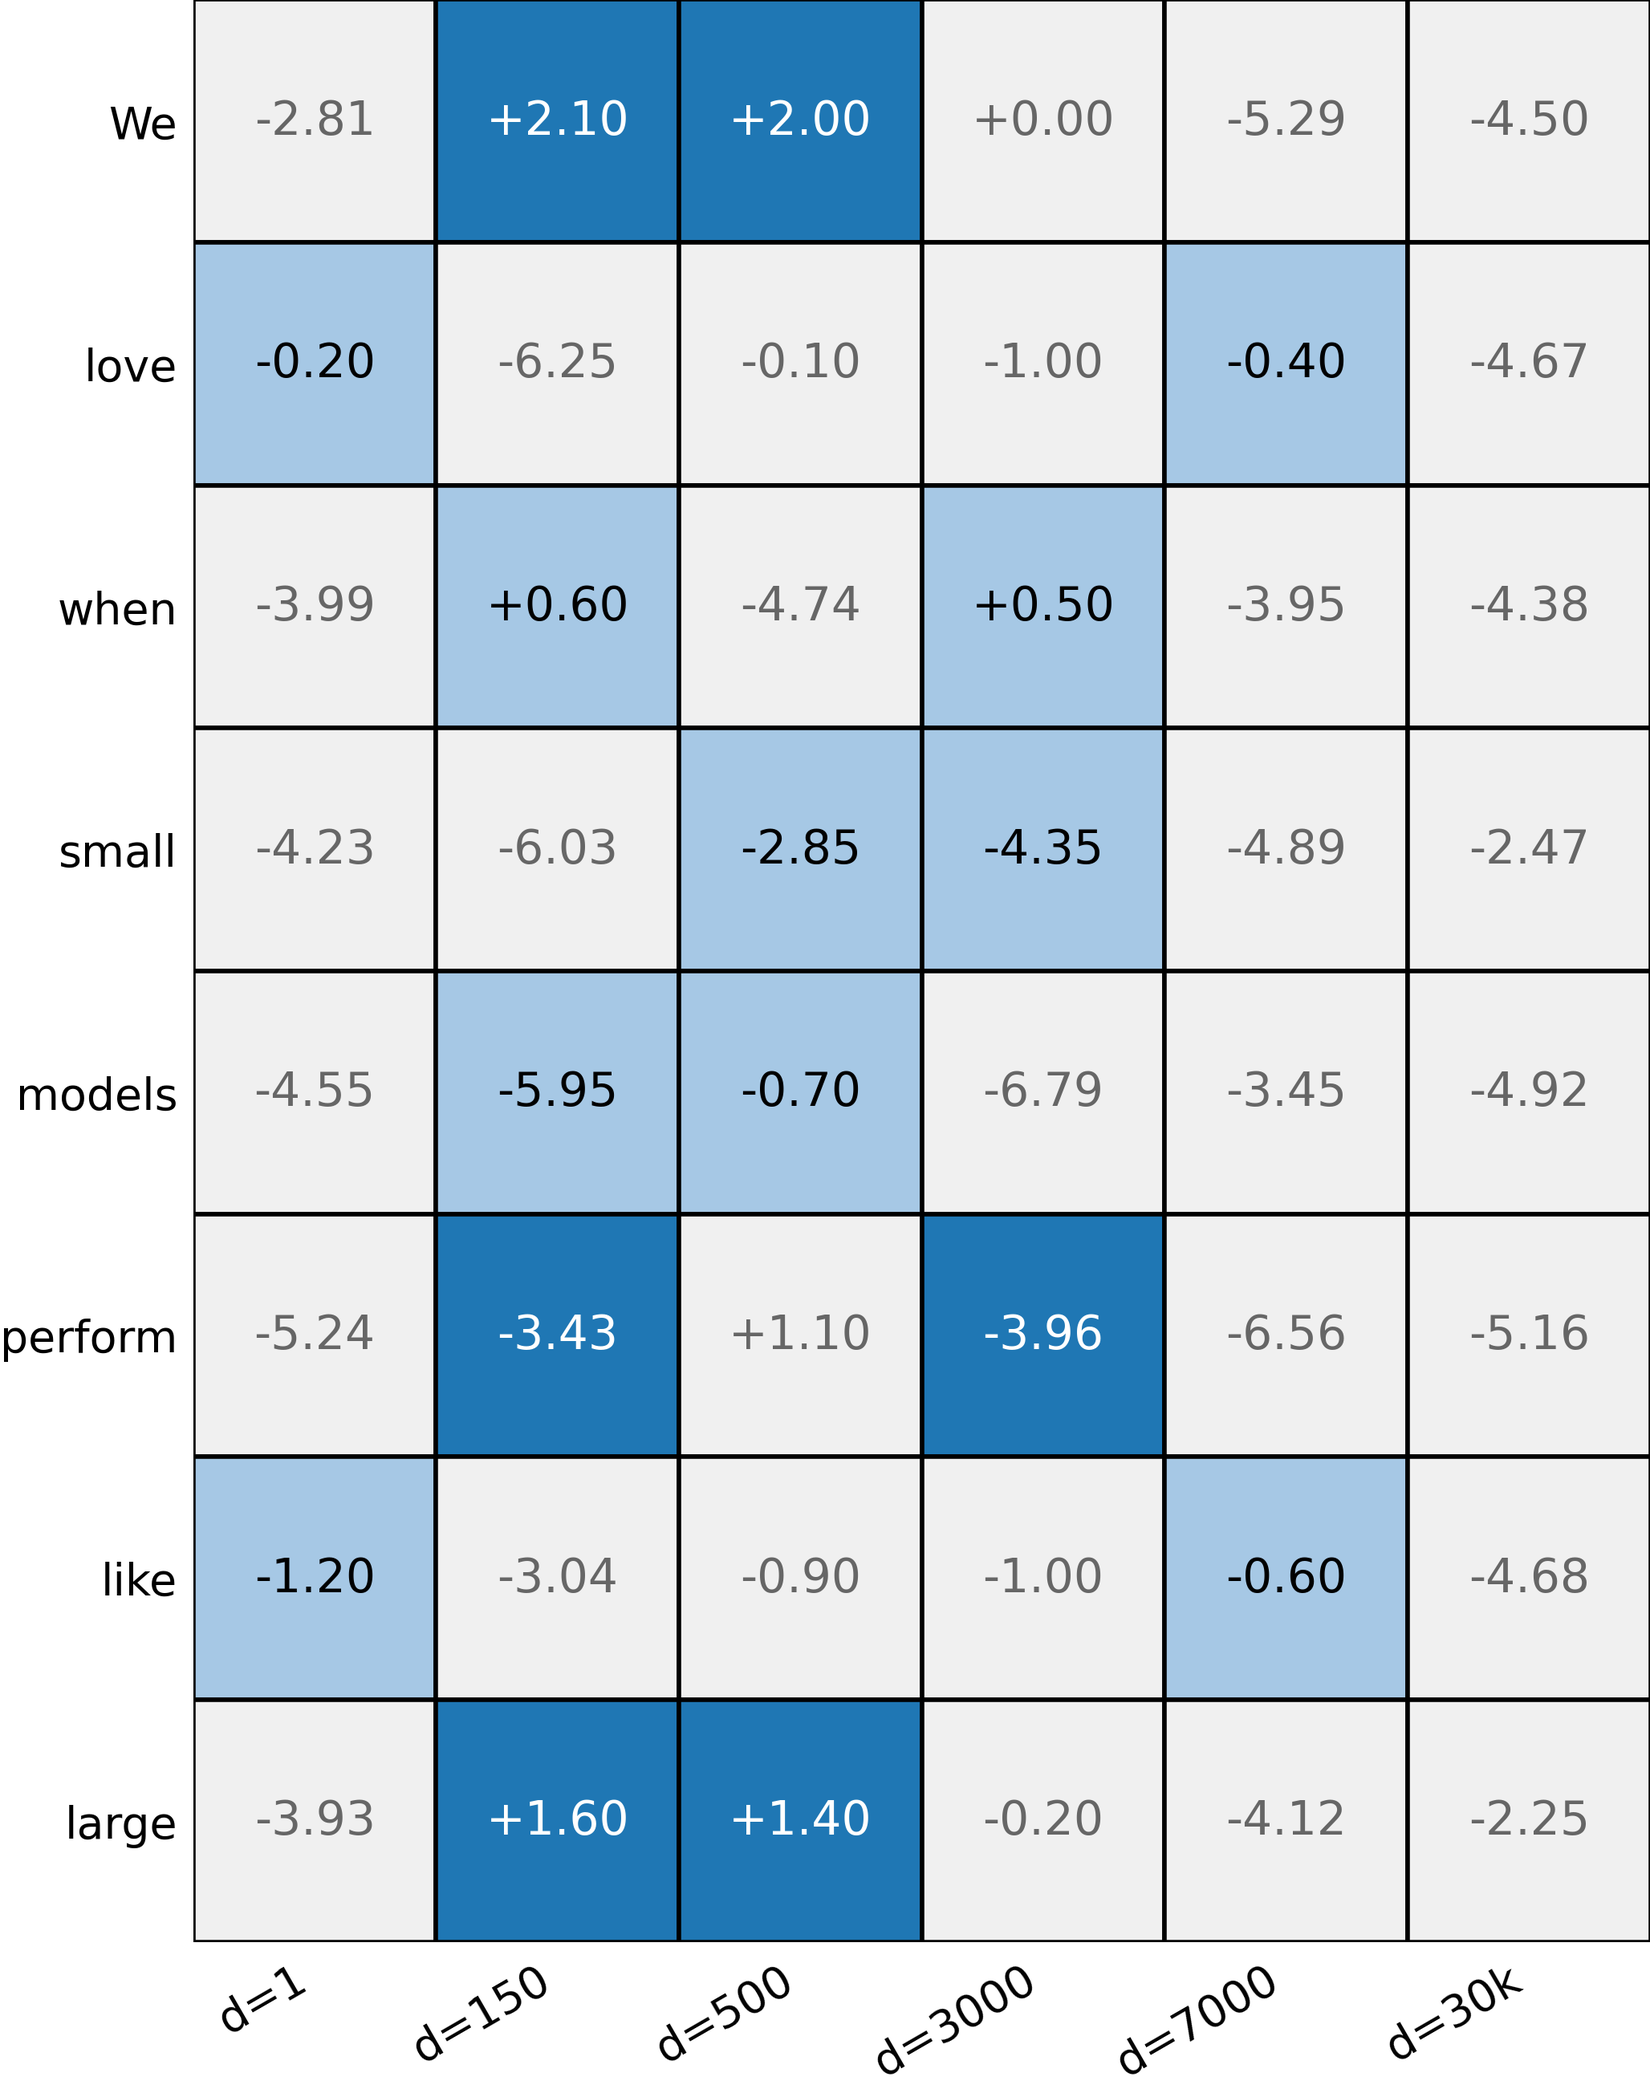
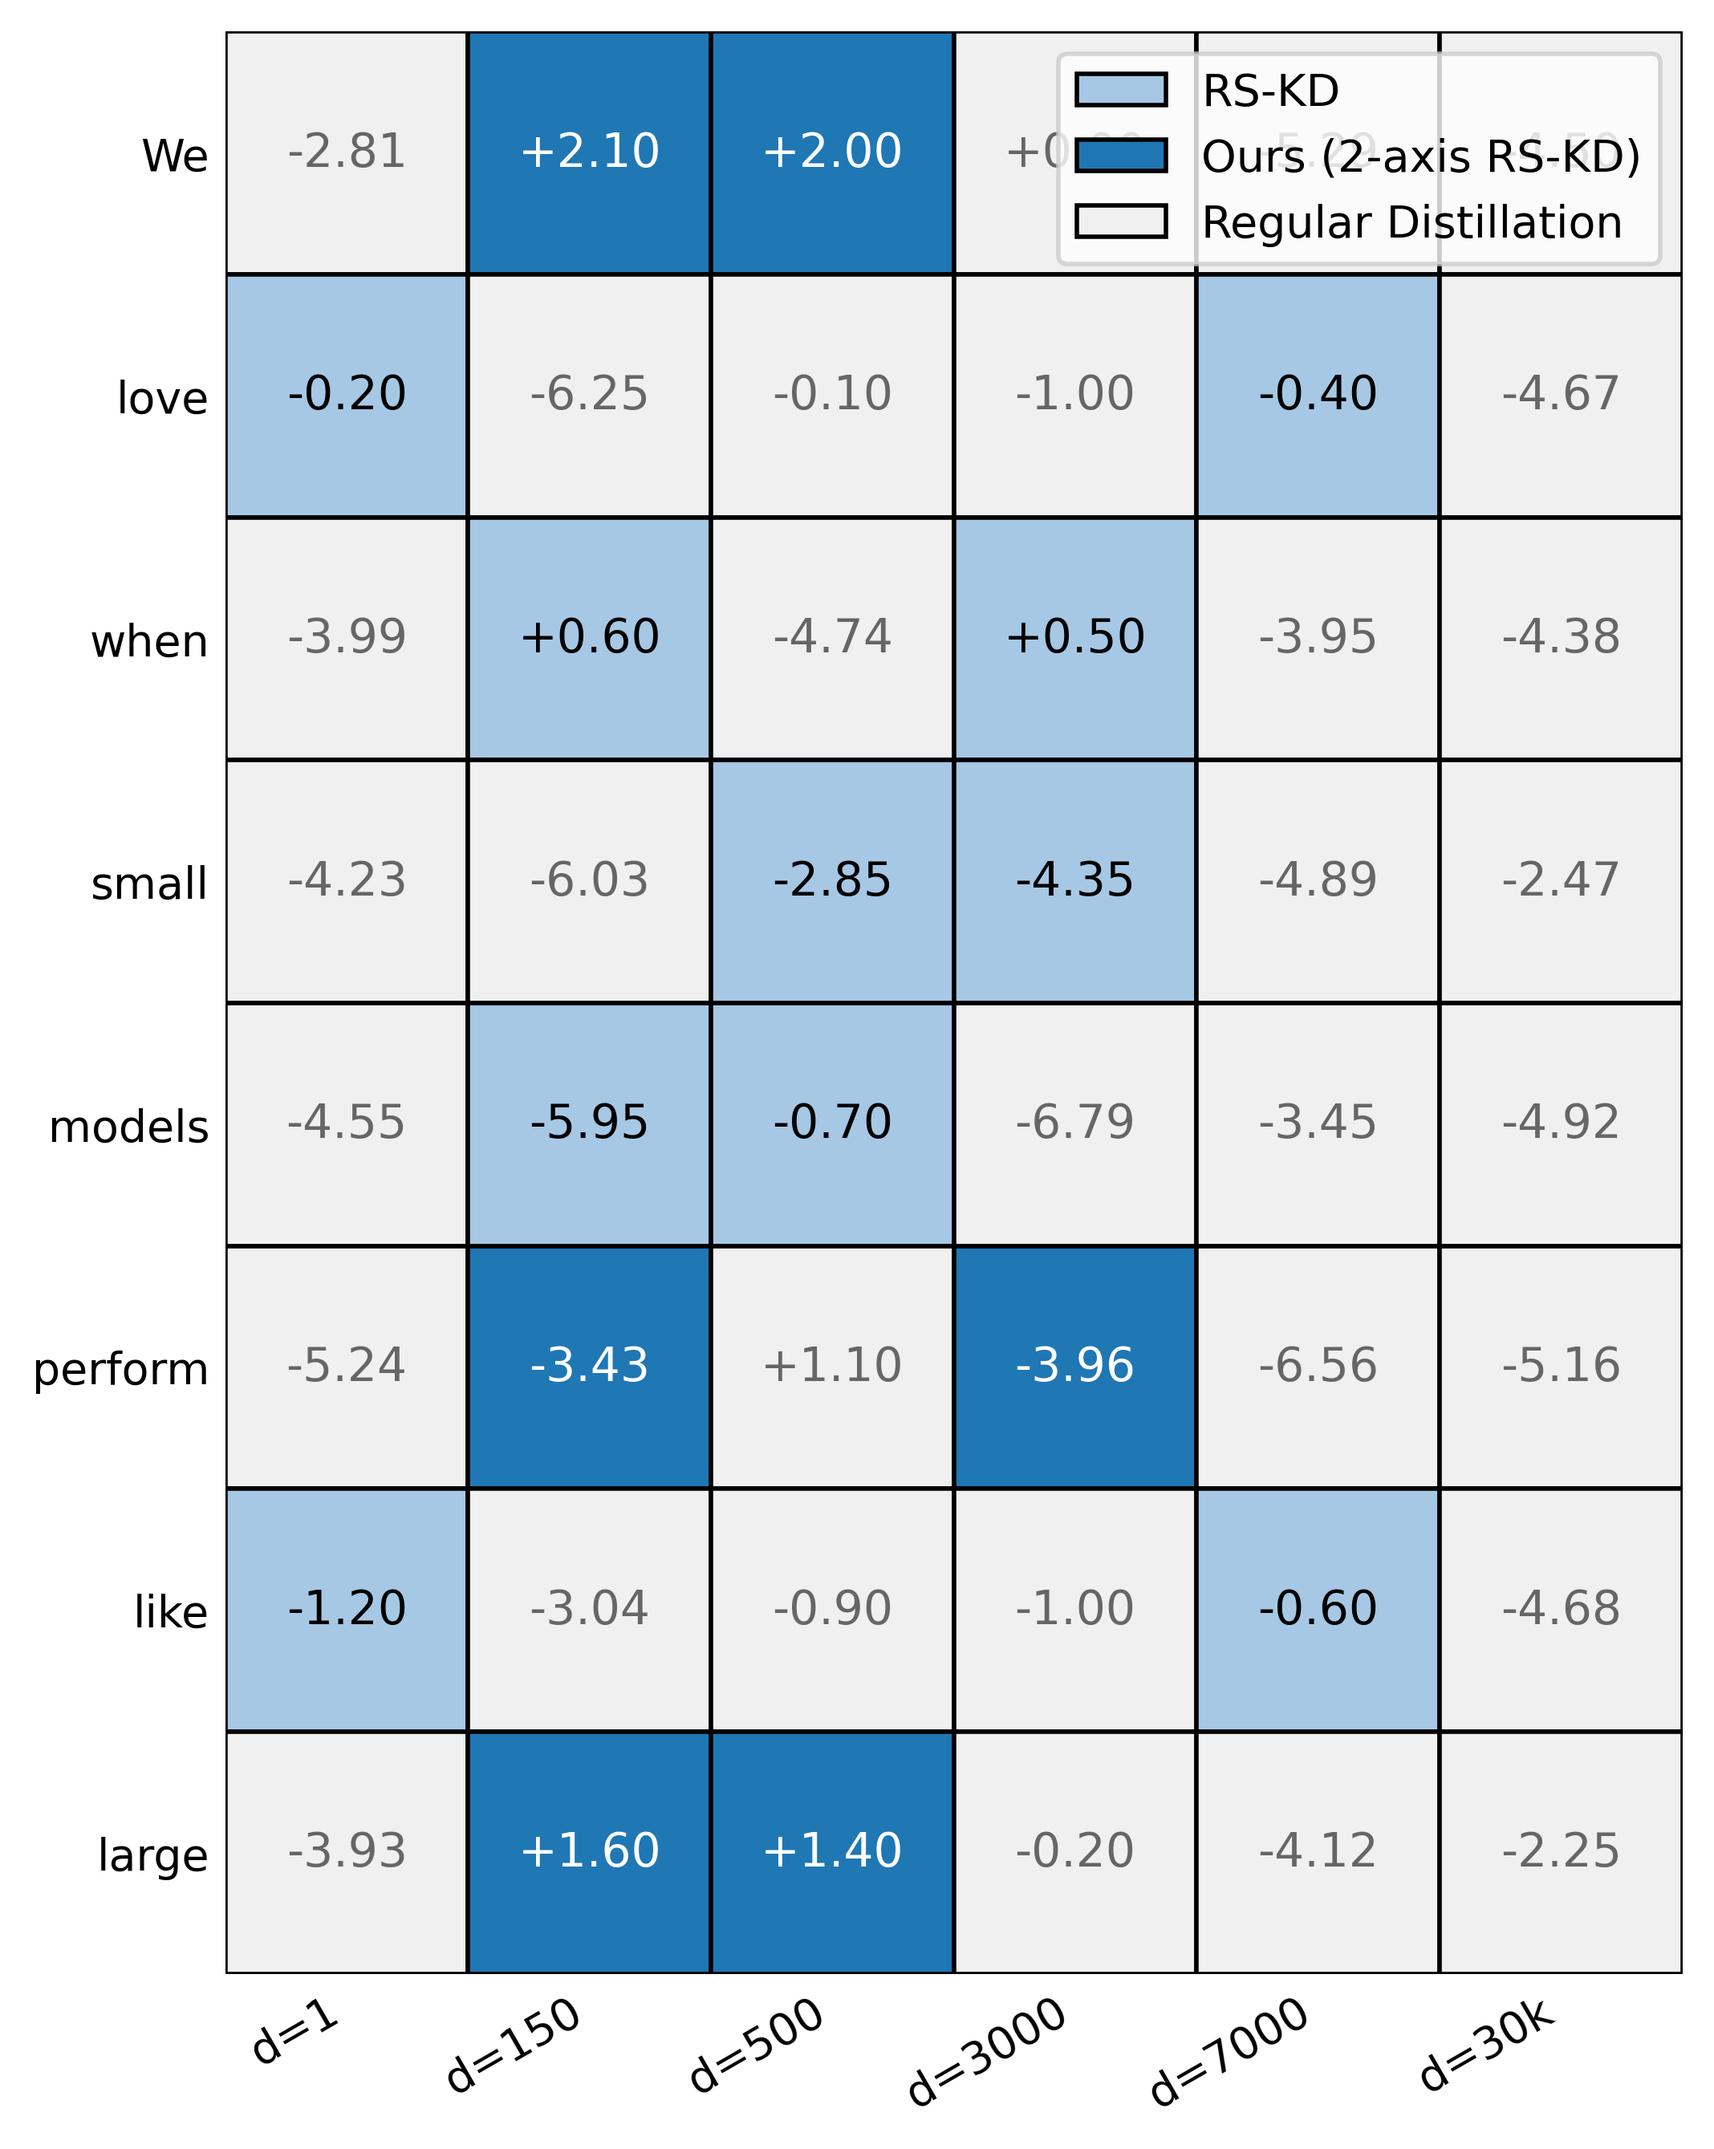
feat: update readme

diff --git a/graphs/rskd_grid.py b/graphs/rskd_grid.py
@@ -91,5 +91,13 @@ for s in ax.spines.values():
 plt.tight_layout()
 
 plt.savefig("rskd_grid.pgf", bbox_inches="tight", pad_inches=0)
-plt.savefig("rskd_grid.png", dpi=400, bbox_inches="tight", pad_inches=0)
+legend_elements = [
+    Patch(facecolor=light_blue, edgecolor="black", label="RS-KD"),
+    Patch(facecolor=strong_blue, edgecolor="black", label="Ours (2-axis RS-KD)"),
+    Patch(facecolor=reg_gray_bg, edgecolor="black", label="Regular Distillation"),
+]
+# the legend should be inside the plot area on the right side:
+ax.legend(handles=legend_elements, loc="upper right",  frameon=True)
+
+plt.savefig("rskd_grid.png", dpi=400, bbox_inches="tight", pad_inches=0.1)
 plt.close()

diff --git a/graphs/kl_div_savings.py b/graphs/kl_div_savings.py
@@ -69,4 +69,5 @@ for i in range(5):
 # fig.text(0.01, 0.01, "Blue = teacher bars used in KL • Orange = student bars used in KL • Gray = bins/rows not distilled", fontsize=10)
 
 plt.savefig('kd_intuition.pgf', bbox_inches='tight', pad_inches=0)
+plt.savefig("kd_intuition.png", dpi=400, bbox_inches="tight", pad_inches=0)
 plt.close()

diff --git a/README.md b/README.md
@@ -1,156 +1,19 @@
-# Entropy-guided Knowledge-Distillation (EKD)
+<img align="right" width="60%" height="60%" src="graphs/rskd_grid.png">
 
-Knowledge distillation for LLMs that focuses on high-entropy "fork" tokens where the teacher model makes important decisions. Uses Ollama's Qwen3-8B in 4-bit as the teacher model.
+# SampledKD
 
-## Quick Start
+A two-axis, token-efficient method for  efficient knowledge distillation for LLMs:
 
-1. Install dependencies (you have to install [uv](https://docs.astral.sh/uv/) first):
-```bash
-uv venv
-# Linux:
-source .venv/bin/activate
-# Windows
-.venv/Scripts/activate
-pip install uv
-uv pip install -e .
+- **Tokens-selective KD (TSKD)**: instead of distilling every token, **enirely skip** the non informative ones and distill only a small set of "fork" high-entropy tokens per sequence. **Save compute on the Y axis**.
+- **SampledKD**: Same as TSKD, but combined with randomly sampled KD (RS-KD) over classes (logits): at selected positions, distill over a tiny cached subset of teacher logits, and importance weighting,the sampling match full-KD gradients in expectation. We now **save compute also on the X axis**.
 
-# Installing CUDA dependencies (adjust to your CUDA version):
-uv pip install .[cu118]
-```
+We create an offline cache, to get acheive "teacher not in the loop" distillation, only with saving $U=12$ sampled classes (a +1-byte from RS-KD, for entropy) per position; online we sample K positions and compute KD only over those cached classes.
 
-2. Install [Ollama](https://ollama.com/download) & Start with Qwen3-8B:
-```bash
-ollama run qwen3:8b
-```
+Assuming the Y axis is positions (the text's tokens), our KL divergence looks like:
+![KD intuition (positions footprint)](graphs/kd_intuition.png)
+## Highlights
 
-3. Run distillation:
-
-We provide several distillation types:
-* **vanilla** — KL between teacher & student on **all** tokens.
-* **ekd** — KL computed **only** on *fork tokens*, i.e. those whose
-  teacher-entropy is in the top-`--k_percent` percentile inside each
-  example.
-* **bucket** — KL computed on tokens with entropy in a specific percentile range,
-  e.g., 70th-80th percentile (excludes both very low and very high entropy tokens).
-* **linucb** — a contextual bandit (LinUCB) that observes a 6D feature vector per
-  token (teacher entropy, teacher CE, student CE, KL, coarse POS bucket, normalized
-  position) and learns online which tokens to distill. It enforces at least one
-  token per sequence and logs overlap with the top-entropy quartile alongside reward
-  improvements.
-
-Add `--score_token_selection` to the **top-k-tok** or **bucket** modes to rank
-tokens by a composite score that mixes teacher entropy, student
-cross-entropy, and teacher-student KL. Tune the mix with
-`--score_entropy_weight`, `--score_ce_weight`, `--score_kl_weight`, and pick a
-normalization via `--score_normalize`.
-
-We use Ollama's Qwen3-8B in 4-bit as teacher:
-```bash
-# Vanilla KD
-python ekd_distill.py \
-    --teacher_model Qwen/Qwen3-8B \
-    --student_model Qwen/Qwen3-0.6B \
-    --distill_type vanilla \
-    --datasets gsm8k \
-    --dataset_config main \
-    --prompt_col question \
-    --answer_col answer \
-    --output_dir ./kd_vanilla_run
-
-# Entropy-guided KD (top-k token selection)
-python ekd_distill.py \
-    --teacher_model Qwen/Qwen3-8B \
-    --student_model Qwen/Qwen3-0.6B \
-    --distill_type top-k-tok \
-  --k_percent 20 \
-    --datasets gsm8k \
-    --dataset_config main \
-    --prompt_col question \
-    --answer_col answer \
-    --output_dir ./kd_top_k_tok_run
-
-# Bucket distillation (e.g., distill on 70th-80th percentile entropy tokens)
-python ekd_distill.py \
-    --teacher_model Qwen/Qwen3-8B \
-    --student_model Qwen/Qwen3-0.6B \
-    --distill_type bucket \
-    --bucket_lower_percent 70 \
-    --bucket_upper_percent 80 \
-    --datasets gsm8k \
-    --dataset_config main \
-    --prompt_col question \
-    --answer_col answer \
-    --output_dir ./kd_bucket_run
-
-# Top-k selection with score-based ranking (entropy + CE + KL)
-python ekd_distill.py \
-  --teacher_model Qwen/Qwen3-8B \
-  --student_model Qwen/Qwen3-0.6B \
-  --distill_type top-k-tok \
-  --k_percent 20 \
-  --score_token_selection \
-  --score_entropy_weight 1.0 \
-  --score_ce_weight 1.0 \
-  --score_kl_weight 1.0 \
-  --datasets gsm8k \
-  --dataset_config main \
-  --prompt_col question \
-  --answer_col answer \
-  --output_dir ./kd_score_run
-
-# LinUCB contextual bandit distillation
-python ekd_distill.py \
-  --teacher_model Qwen/Qwen3-8B \
-  --student_model Qwen/Qwen3-0.6B \
-  --distill_type linucb \
-  --datasets gsm8k \
-  --dataset_config main \
-  --prompt_col question \
-  --answer_col answer \
-  --bandit_alpha 0.75 \
-  --bandit_threshold 0.0 \
-  --bandit_min_tokens 1 \
-  --output_dir ./kd_linucb_run
-```
-
-Tune LinUCB-specific knobs with `--bandit_alpha`, `--bandit_lambda`, `--bandit_threshold`,
-and `--bandit_max_tokens`. The trainer logs per-step selection statistics
-(`bandit/selected_tokens`, `bandit/overlap_selected`) and the average reward
-achieved by the bandit after each optimizer update (`bandit/avg_reward`,
-`bandit/positive_reward_rate`).
-
-## Requirements
-
-- Python >=3.10
-- CUDA-enabled GPU
-- Ollama installed and running with Qwen3-8B
-- Memory: Keep `batch_size * seq_len < 4000` to fit in low GPU memory (11GB VRAM).
-
-## Benchmarks
-Out-of-the-box the script supports the **AIME-2024** and **AIME-2025**
-math benchmarks. We prepare each dataset as a JSONL file:
-
-```json
-{
-  "id": "AIME24_q1",
-  "question": "Find the sum of ...",
-  "answer": "123"
-}
-```
-
-Place them in a directory and pass `--datasets aime24.jsonl aime25.jsonl`.
-The script prompts the teacher to generate a chain-of-thought (CoT)
-followed by the boxed final answer, caches the result, and then trains the
-student by teacher-forcing.
-
-
-## Dataset Format
-
-Prepare datasets as JSONL files:
-```json
-{
-  "id": "example_1",
-  "question": "Your question here...",
-  "answer": "123"
-}
-```
+- SampledKD comes with lots of modes: Token selection by teacher entropy, by a score that combines CE & KL, with global FIFO (GLS) thresholding, with RS-KD like tokens selection and with a tiny dedicated model for selection trains from the loss.
+- Unbiased class sampling via RS-KD; compact cache: $(12\times3B + 1B)/position$
+- Optional sampled-softmax path to remove full-vocabulary softmax during training
+- Evaluation - pass@1 on GSM8K, SVAMP, ARC (Easy/Challenge), HellaSwag, PIQA, LAMBADA (test-only), AIME’25 (test-only), and IFEval

diff --git a/CONTRIBUTING.md b/CONTRIBUTING.md
@@ -1,3 +1,156 @@
+## Quick Start
+
+1. Install dependencies (you have to install [uv](https://docs.astral.sh/uv/) first):
+```bash
+uv venv
+# Linux:
+source .venv/bin/activate
+# Windows
+.venv/Scripts/activate
+pip install uv
+uv pip install -e .
+
+# Installing CUDA dependencies (adjust to your CUDA version):
+uv pip install .[cu118]
+```
+
+2. Install [Ollama](https://ollama.com/download) & Start with Qwen3-8B:
+```bash
+ollama run qwen3:8b
+```
+
+3. Run distillation:
+
+We provide several distillation types:
+* **vanilla** — KL between teacher & student on **all** tokens.
+* **ekd** — KL computed **only** on *fork tokens*, i.e. those whose
+  teacher-entropy is in the top-`--k_percent` percentile inside each
+  example.
+* **bucket** — KL computed on tokens with entropy in a specific percentile range,
+  e.g., 70th-80th percentile (excludes both very low and very high entropy tokens).
+* **linucb** — a contextual bandit (LinUCB) that observes a 6D feature vector per
+  token (teacher entropy, teacher CE, student CE, KL, coarse POS bucket, normalized
+  position) and learns online which tokens to distill. It enforces at least one
+  token per sequence and logs overlap with the top-entropy quartile alongside reward
+  improvements.
+
+Add `--score_token_selection` to the **top-k-tok** or **bucket** modes to rank
+tokens by a composite score that mixes teacher entropy, student
+cross-entropy, and teacher-student KL. Tune the mix with
+`--score_entropy_weight`, `--score_ce_weight`, `--score_kl_weight`, and pick a
+normalization via `--score_normalize`.
+
+We use Ollama's Qwen3-8B in 4-bit as teacher:
+```bash
+# Vanilla KD
+python ekd_distill.py \
+    --teacher_model Qwen/Qwen3-8B \
+    --student_model Qwen/Qwen3-0.6B \
+    --distill_type vanilla \
+    --datasets gsm8k \
+    --dataset_config main \
+    --prompt_col question \
+    --answer_col answer \
+    --output_dir ./kd_vanilla_run
+
+# Entropy-guided KD (top-k token selection)
+python ekd_distill.py \
+    --teacher_model Qwen/Qwen3-8B \
+    --student_model Qwen/Qwen3-0.6B \
+    --distill_type top-k-tok \
+  --k_percent 20 \
+    --datasets gsm8k \
+    --dataset_config main \
+    --prompt_col question \
+    --answer_col answer \
+    --output_dir ./kd_top_k_tok_run
+
+# Bucket distillation (e.g., distill on 70th-80th percentile entropy tokens)
+python ekd_distill.py \
+    --teacher_model Qwen/Qwen3-8B \
+    --student_model Qwen/Qwen3-0.6B \
+    --distill_type bucket \
+    --bucket_lower_percent 70 \
+    --bucket_upper_percent 80 \
+    --datasets gsm8k \
+    --dataset_config main \
+    --prompt_col question \
+    --answer_col answer \
+    --output_dir ./kd_bucket_run
+
+# Top-k selection with score-based ranking (entropy + CE + KL)
+python ekd_distill.py \
+  --teacher_model Qwen/Qwen3-8B \
+  --student_model Qwen/Qwen3-0.6B \
+  --distill_type top-k-tok \
+  --k_percent 20 \
+  --score_token_selection \
+  --score_entropy_weight 1.0 \
+  --score_ce_weight 1.0 \
+  --score_kl_weight 1.0 \
+  --datasets gsm8k \
+  --dataset_config main \
+  --prompt_col question \
+  --answer_col answer \
+  --output_dir ./kd_score_run
+
+# LinUCB contextual bandit distillation
+python ekd_distill.py \
+  --teacher_model Qwen/Qwen3-8B \
+  --student_model Qwen/Qwen3-0.6B \
+  --distill_type linucb \
+  --datasets gsm8k \
+  --dataset_config main \
+  --prompt_col question \
+  --answer_col answer \
+  --bandit_alpha 0.75 \
+  --bandit_threshold 0.0 \
+  --bandit_min_tokens 1 \
+  --output_dir ./kd_linucb_run
+```
+
+Tune LinUCB-specific knobs with `--bandit_alpha`, `--bandit_lambda`, `--bandit_threshold`,
+and `--bandit_max_tokens`. The trainer logs per-step selection statistics
+(`bandit/selected_tokens`, `bandit/overlap_selected`) and the average reward
+achieved by the bandit after each optimizer update (`bandit/avg_reward`,
+`bandit/positive_reward_rate`).
+
+## Requirements
+
+- Python >=3.10
+- CUDA-enabled GPU
+- Ollama installed and running with Qwen3-8B
+- Memory: Keep `batch_size * seq_len < 4000` to fit in low GPU memory (11GB VRAM).
+
+## Benchmarks
+Out-of-the-box the script supports the **AIME-2024** and **AIME-2025**
+math benchmarks. We prepare each dataset as a JSONL file:
+
+```json
+{
+  "id": "AIME24_q1",
+  "question": "Find the sum of ...",
+  "answer": "123"
+}
+```
+
+Place them in a directory and pass `--datasets aime24.jsonl aime25.jsonl`.
+The script prompts the teacher to generate a chain-of-thought (CoT)
+followed by the boxed final answer, caches the result, and then trains the
+student by teacher-forcing.
+
+
+## Dataset Format
+
+Prepare datasets as JSONL files:
+```json
+{
+  "id": "example_1",
+  "question": "Your question here...",
+  "answer": "123"
+}
+```
+
 # 🚀 Quick Training Guide
 
 ## 🔧 Initial Setup (One-time)
